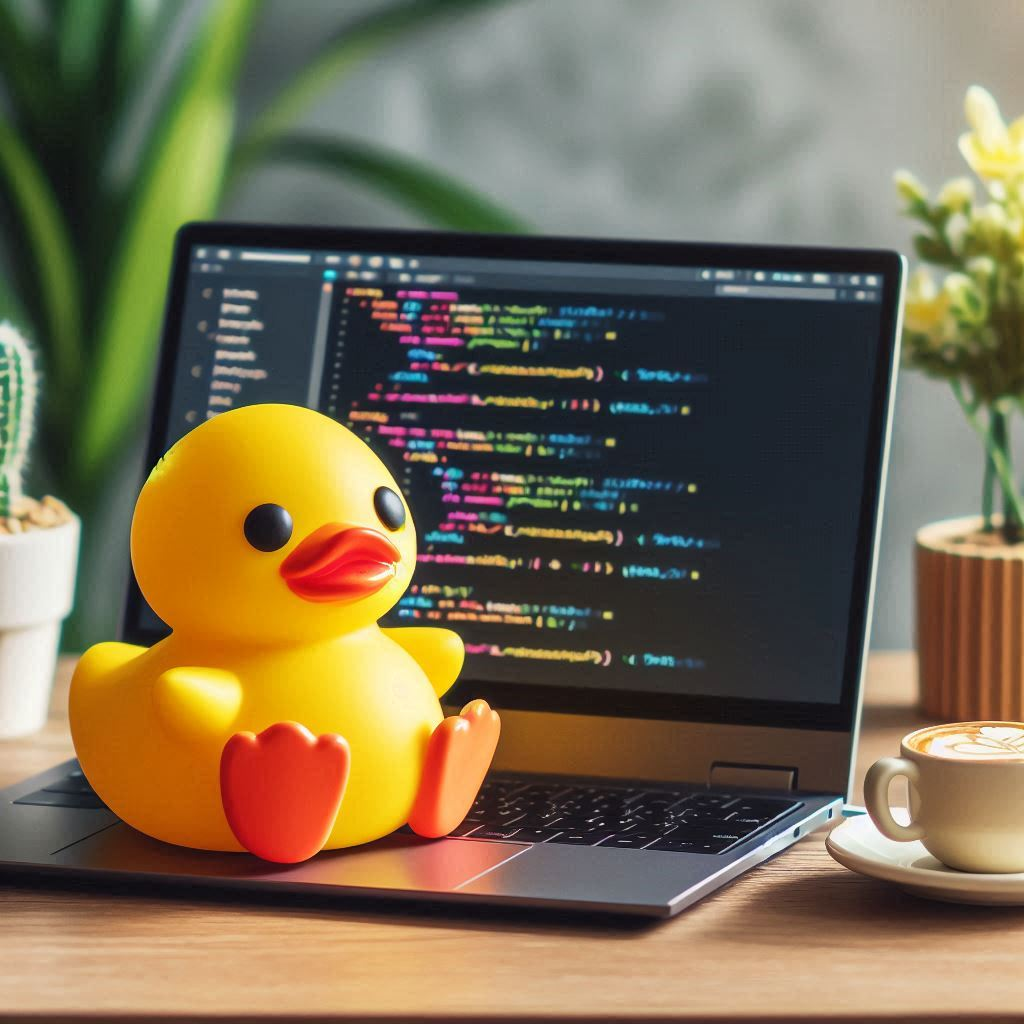
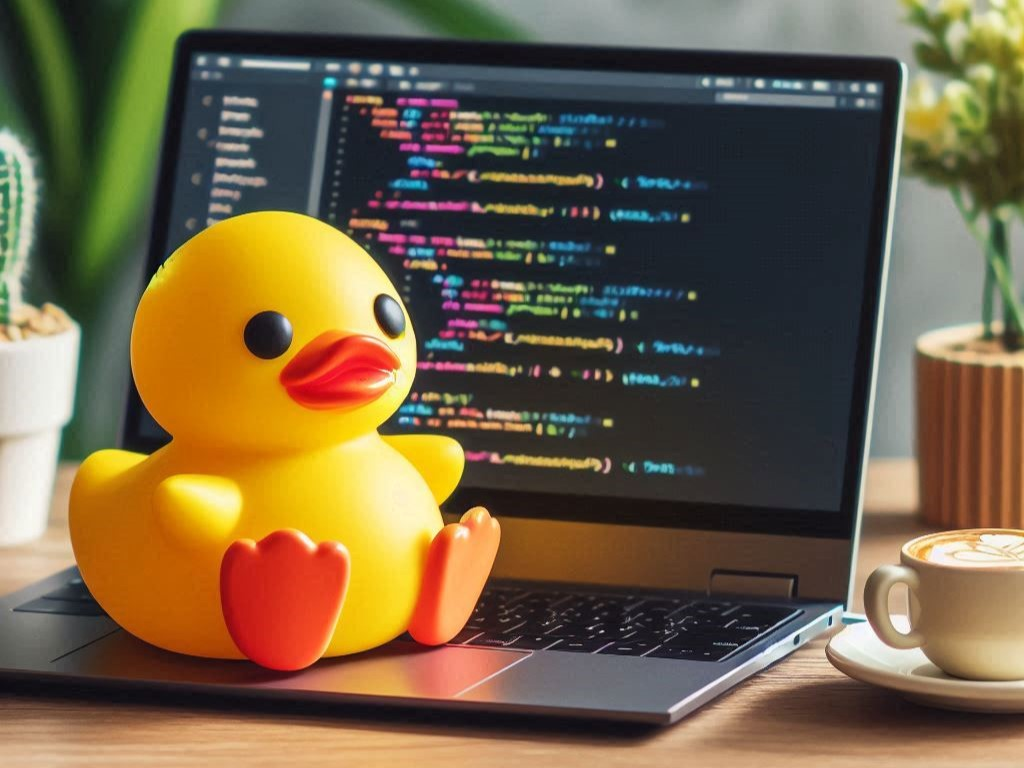
Landing - section1 v1

diff --git a/src/app/page.tsx b/src/app/page.tsx
@@ -6,17 +6,17 @@ export default function Home() {
       {/* Name and img */}
       <div className="max-w-screen-xl mx-auto
                       grid grid-cols-1 lg:grid-cols-2">
-        <div className="mesh-background p-4">
+        <div className="mesh-background p-4 space-y-4">
           <h1>M. Alejandro Villalobos C.</h1>
           <h2>Computer Systems Engineer</h2>
           <h3>Welcome to my portfolio. Here you&#39;ll find a showcase of my work, projects, and the impact I&#39;ve made in the tech world.</h3>
         </div>
-        <div className="hidden lg:block">
+        <div className="hidden lg:block relative">
           <Image
             src="/images/rubber_ducky.jpg"
             alt="Rubber Ducky Programming"
             width={1024}
-            height={1024}
+            height={768}
           />
         </div>
       </div>
